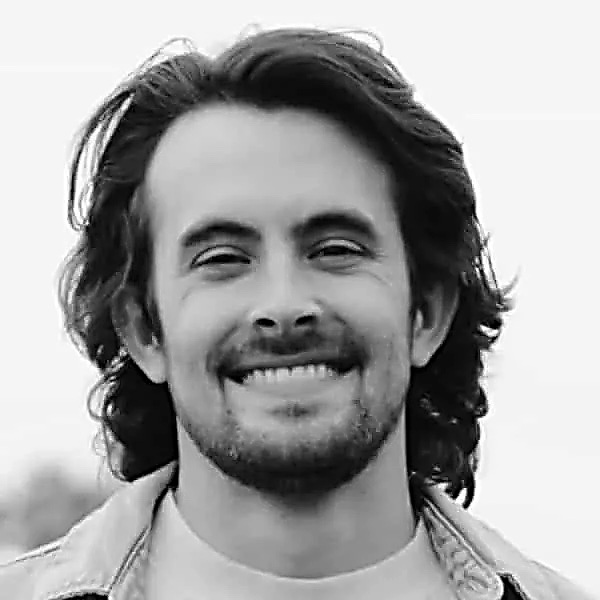
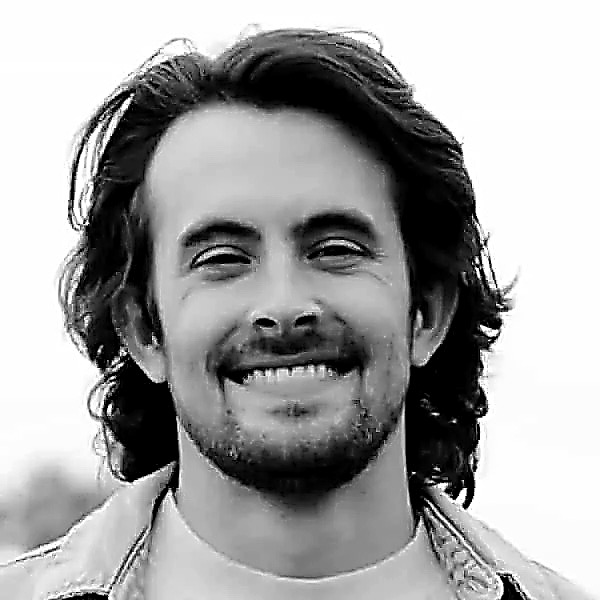
Hero: full-bleed portrait plate that dissolves into the page
Replaces the boxed portrait beside the headline with a large plate behind it,
following the laugon.com reference the brief pointed at.

The reference photo is shot dark with a lit face; this one is the inverse, a
dark face on a light backdrop. So the plate is sunk into the page with
brightness rather than lifted with contrast, then dissolved with a radial mask
around the head intersected with a left-edge fade, so it never meets a hard
boundary and never sits behind the headline at full strength.

Measured worst-case headline contrast over the plate is 8.12:1, past AAA for
large text. Portrait resharpened with an unsharp mask applied after upscaling.

diff --git a/css/site.css b/css/site.css
@@ -357,9 +357,56 @@ section { position: relative; }
 
 .hero__actions { display: flex; flex-wrap: wrap; gap: 0.75rem; }
 
+/* --- Full-bleed portrait plate -------------------------------------------
+   The portrait sits behind the copy rather than beside it. The source photo
+   is shot on a LIGHT backdrop, the inverse of the dark reference, so it is
+   sunk into the page with brightness rather than lifted with contrast, then
+   dissolved at every edge with a mask so it never meets a hard boundary. */
+.hero--plate { position: relative; }
+.hero--plate .shell { position: relative; z-index: 2; }
+.hero--plate .hero__copy { grid-column: 1 / 9; }
+
+.hero__plate {
+  position: absolute;
+  inset: 0 0 0 auto;
+  width: min(68%, 980px);
+  margin: 0;
+  z-index: 1;
+  pointer-events: none;
+}
+
+.hero__plate img {
+  width: 100%;
+  height: 100%;
+  object-fit: cover;
+  object-position: 50% 22%;
+  filter: grayscale(1) contrast(1.06) brightness(0.46);
+  opacity: 0.75;
+  /* Two masks multiplied: a soft ellipse around the head, and a hard fade on
+     the left so the plate never intrudes on the headline's counters. */
+  -webkit-mask-image:
+    radial-gradient(115% 88% at 62% 34%, #000 26%, rgba(0,0,0,0.55) 55%, transparent 78%),
+    linear-gradient(to right, transparent 0%, #000 42%);
+  mask-image:
+    radial-gradient(115% 88% at 62% 34%, #000 26%, rgba(0,0,0,0.55) 55%, transparent 78%),
+    linear-gradient(to right, transparent 0%, #000 42%);
+  -webkit-mask-composite: source-in;
+  mask-composite: intersect;
+}
+
 @media (max-width: 1024px) {
-  .hero__copy { grid-column: 1 / 13; }
+  .hero__copy,
+  .hero--plate .hero__copy { grid-column: 1 / 13; }
   .hero__figure { grid-column: 1 / 13; margin-top: 2.5rem; max-width: 340px; }
+  /* On narrow screens the plate moves behind the whole column and drops back
+     further, so the headline never has to fight it for contrast. */
+  .hero__plate { width: 100%; }
+  .hero__plate img {
+    object-position: 50% 16%;
+    opacity: 0.5;
+    -webkit-mask-image: radial-gradient(120% 62% at 60% 22%, #000 18%, transparent 72%);
+    mask-image: radial-gradient(120% 62% at 60% 22%, #000 18%, transparent 72%);
+  }
 }
 
 /* ============================================================

diff --git a/index.html b/index.html
@@ -56,7 +56,10 @@
 <main id="main">
 
   <!-- ========================= HERO ========================= -->
-  <section class="hero">
+  <section class="hero hero--plate">
+    <figure class="hero__plate" aria-hidden="true">
+      <img src="assets/img/portrait-hero.jpg" alt="" loading="eager" fetchpriority="high" decoding="async">
+    </figure>
     <div class="shell" style="width:100%">
       <div class="grid12 hero__grid">
         <div class="hero__copy">
@@ -74,14 +77,6 @@
           </div>
         </div>
 
-        <figure class="hero__figure reveal" style="--d:620ms;margin:0">
-          <!-- TODO Jake: drop a portrait at assets/img/portrait.jpg, 1000x1250 or larger.
-               If the file is absent the designed panel below shows instead. -->
-          <div class="media" style="--ratio:100%">
-            <div class="media__slot"><span class="mark">JC</span></div>
-            <img src="assets/img/portrait.jpg" alt="Jake Carter" loading="eager">
-          </div>
-        </figure>
       </div>
     </div>
   </section>
